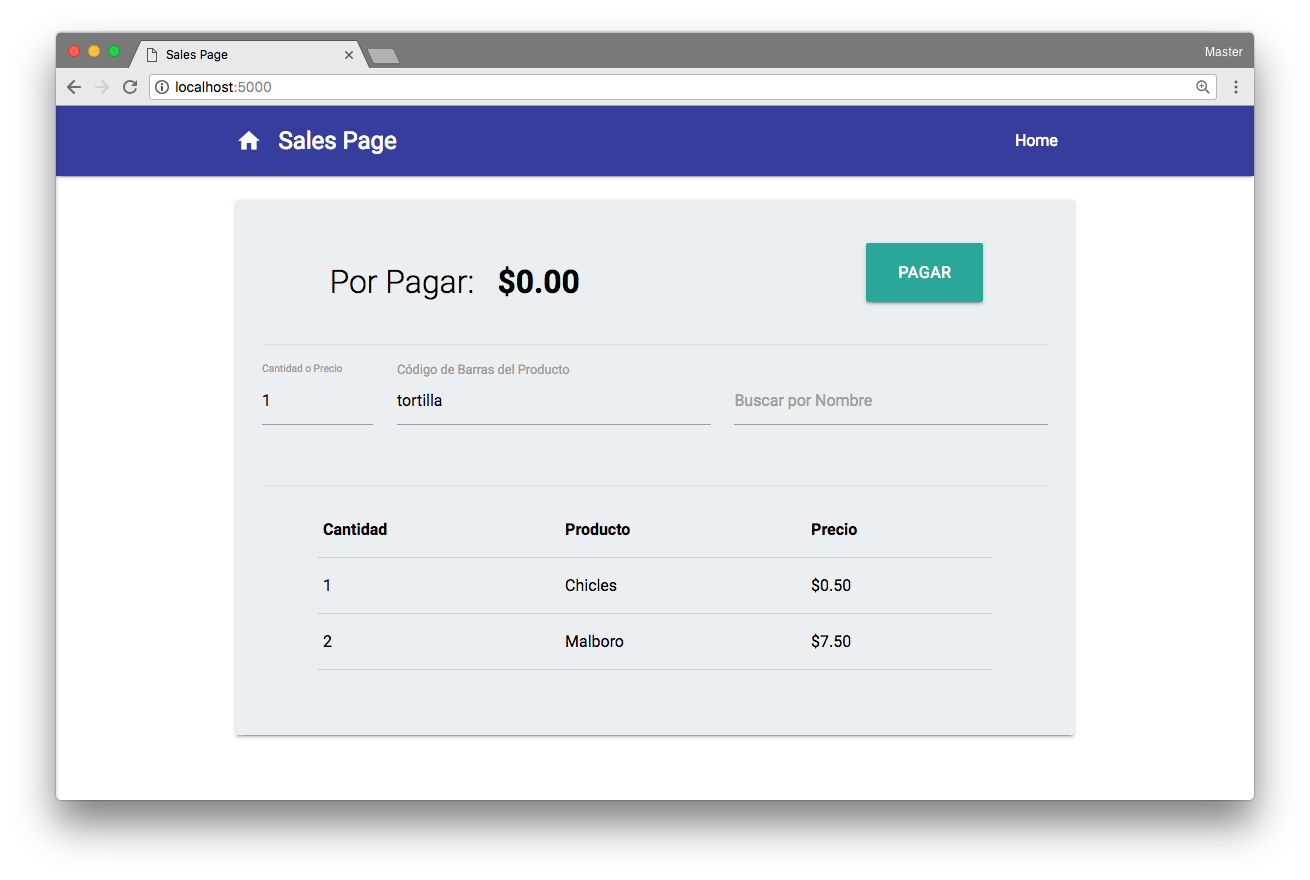
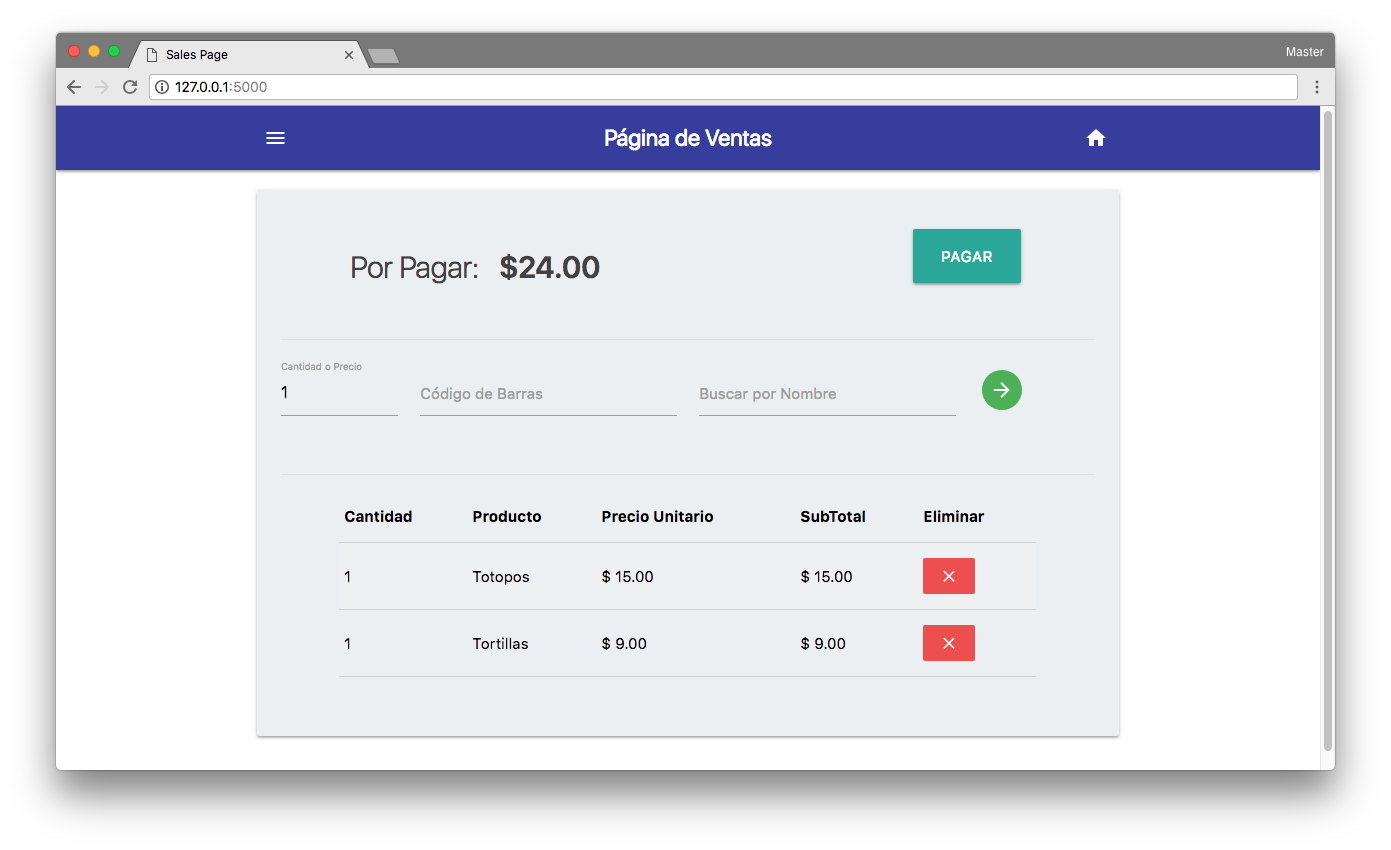
Add update to README

diff --git a/README.md b/README.md
@@ -31,6 +31,9 @@
 - Autofocus in codebar
 - If you put `$` then it will be render as a price or for example or 
 `$10` means $10 of an item or like $10 of eggs and `10` is 10 items
+- You can navigate through a sale with buttons or hot keys
+- Is responsive, even on Mobile
+- You can delete an item
 - You have a ton of Hot Keys:
 	- MoveFocusToRight: with `shift+right` or `alt+right` or `ctrl+right`
 	- MoveFocusToLeft: with `shift+left` or `alt+left` or `ctrl+left`
@@ -44,3 +47,5 @@
 
 
 <img src="Graphics/SalesPage2.png" width="85%">
+<img src="Graphics/SalesPage3.png" width="85%">
+<img src="Graphics/SalesPage4.png" width="85%">

diff --git a/ToCheck.md b/ToCheck.md
@@ -5,4 +5,5 @@
 - How to authentificate a sell in the app 
 - From SQL to prodecures
 - Check inventary in each step
-- Schedule
+- Schedule??? How to in DB
+- React Router
